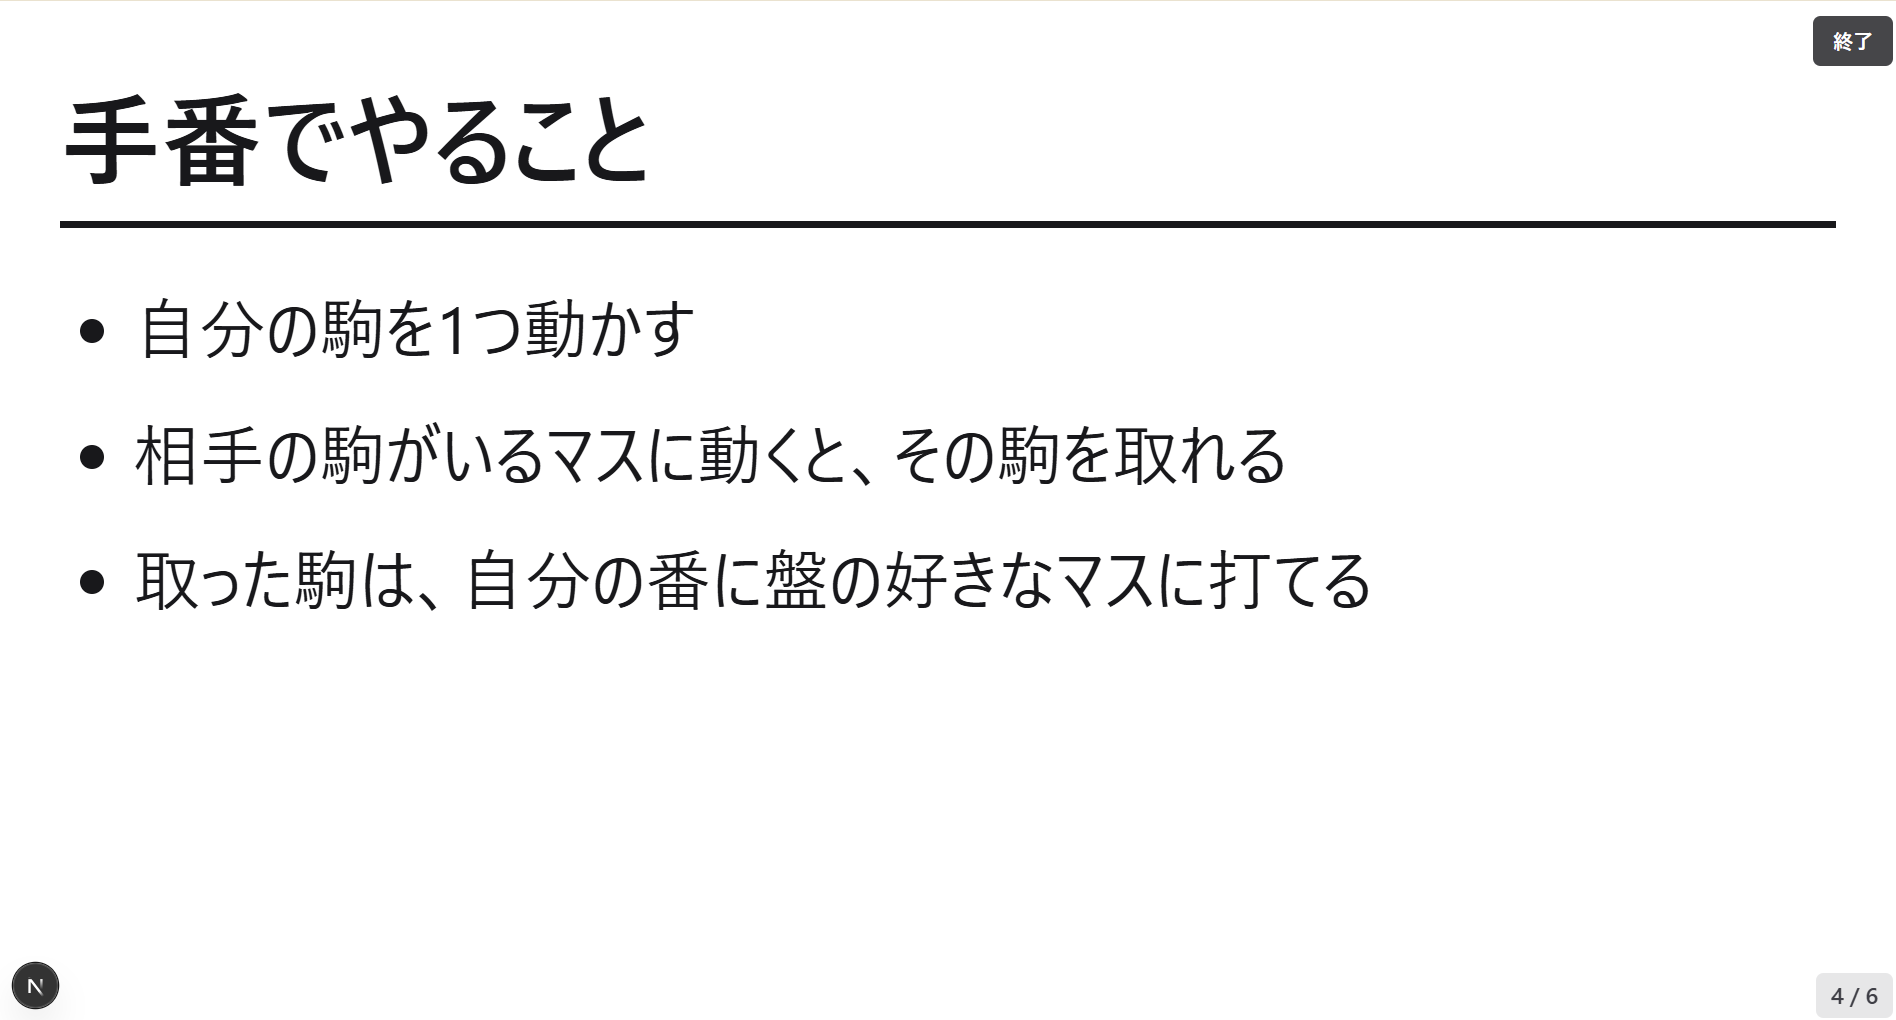
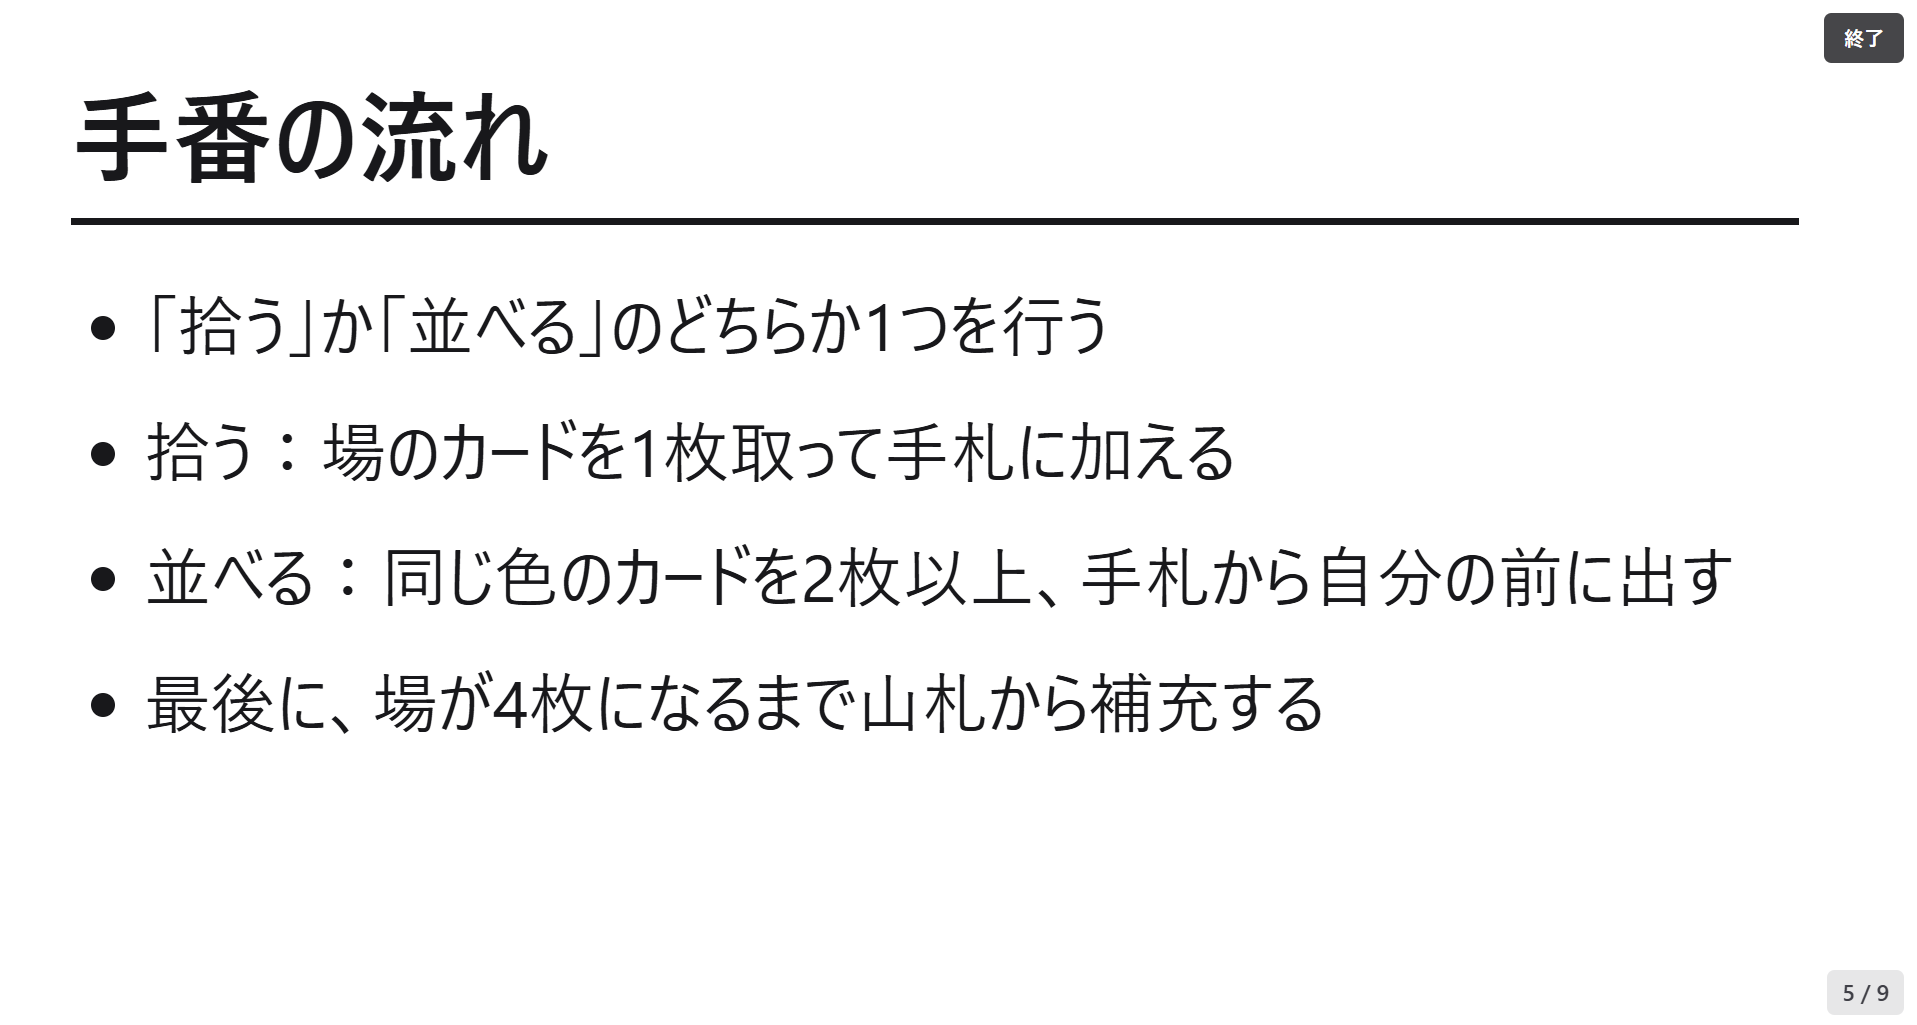
README に公開URLを記入し、スクリーンショットを公開版の画面に差し替え
Vercel へのデプロイが済んだので、仮のままだった公開URLを https://rule-slide.vercel.app にした。
スクリーンショットも、開発サーバーの表示（Next.js の開発用マーク）が入らない公開版の
発表モードの画面に差し替えた。

diff --git a/README.md b/README.md
@@ -6,7 +6,7 @@
 ![スクリーンショット](docs/screenshot.png)
 
 ## 公開URL
-https://（Vercel のURL）
+https://rule-slide.vercel.app
 
 ## できること
 - ゲームの基本情報（人数・時間・対象・概要・勝利条件）とルール項目を登録
